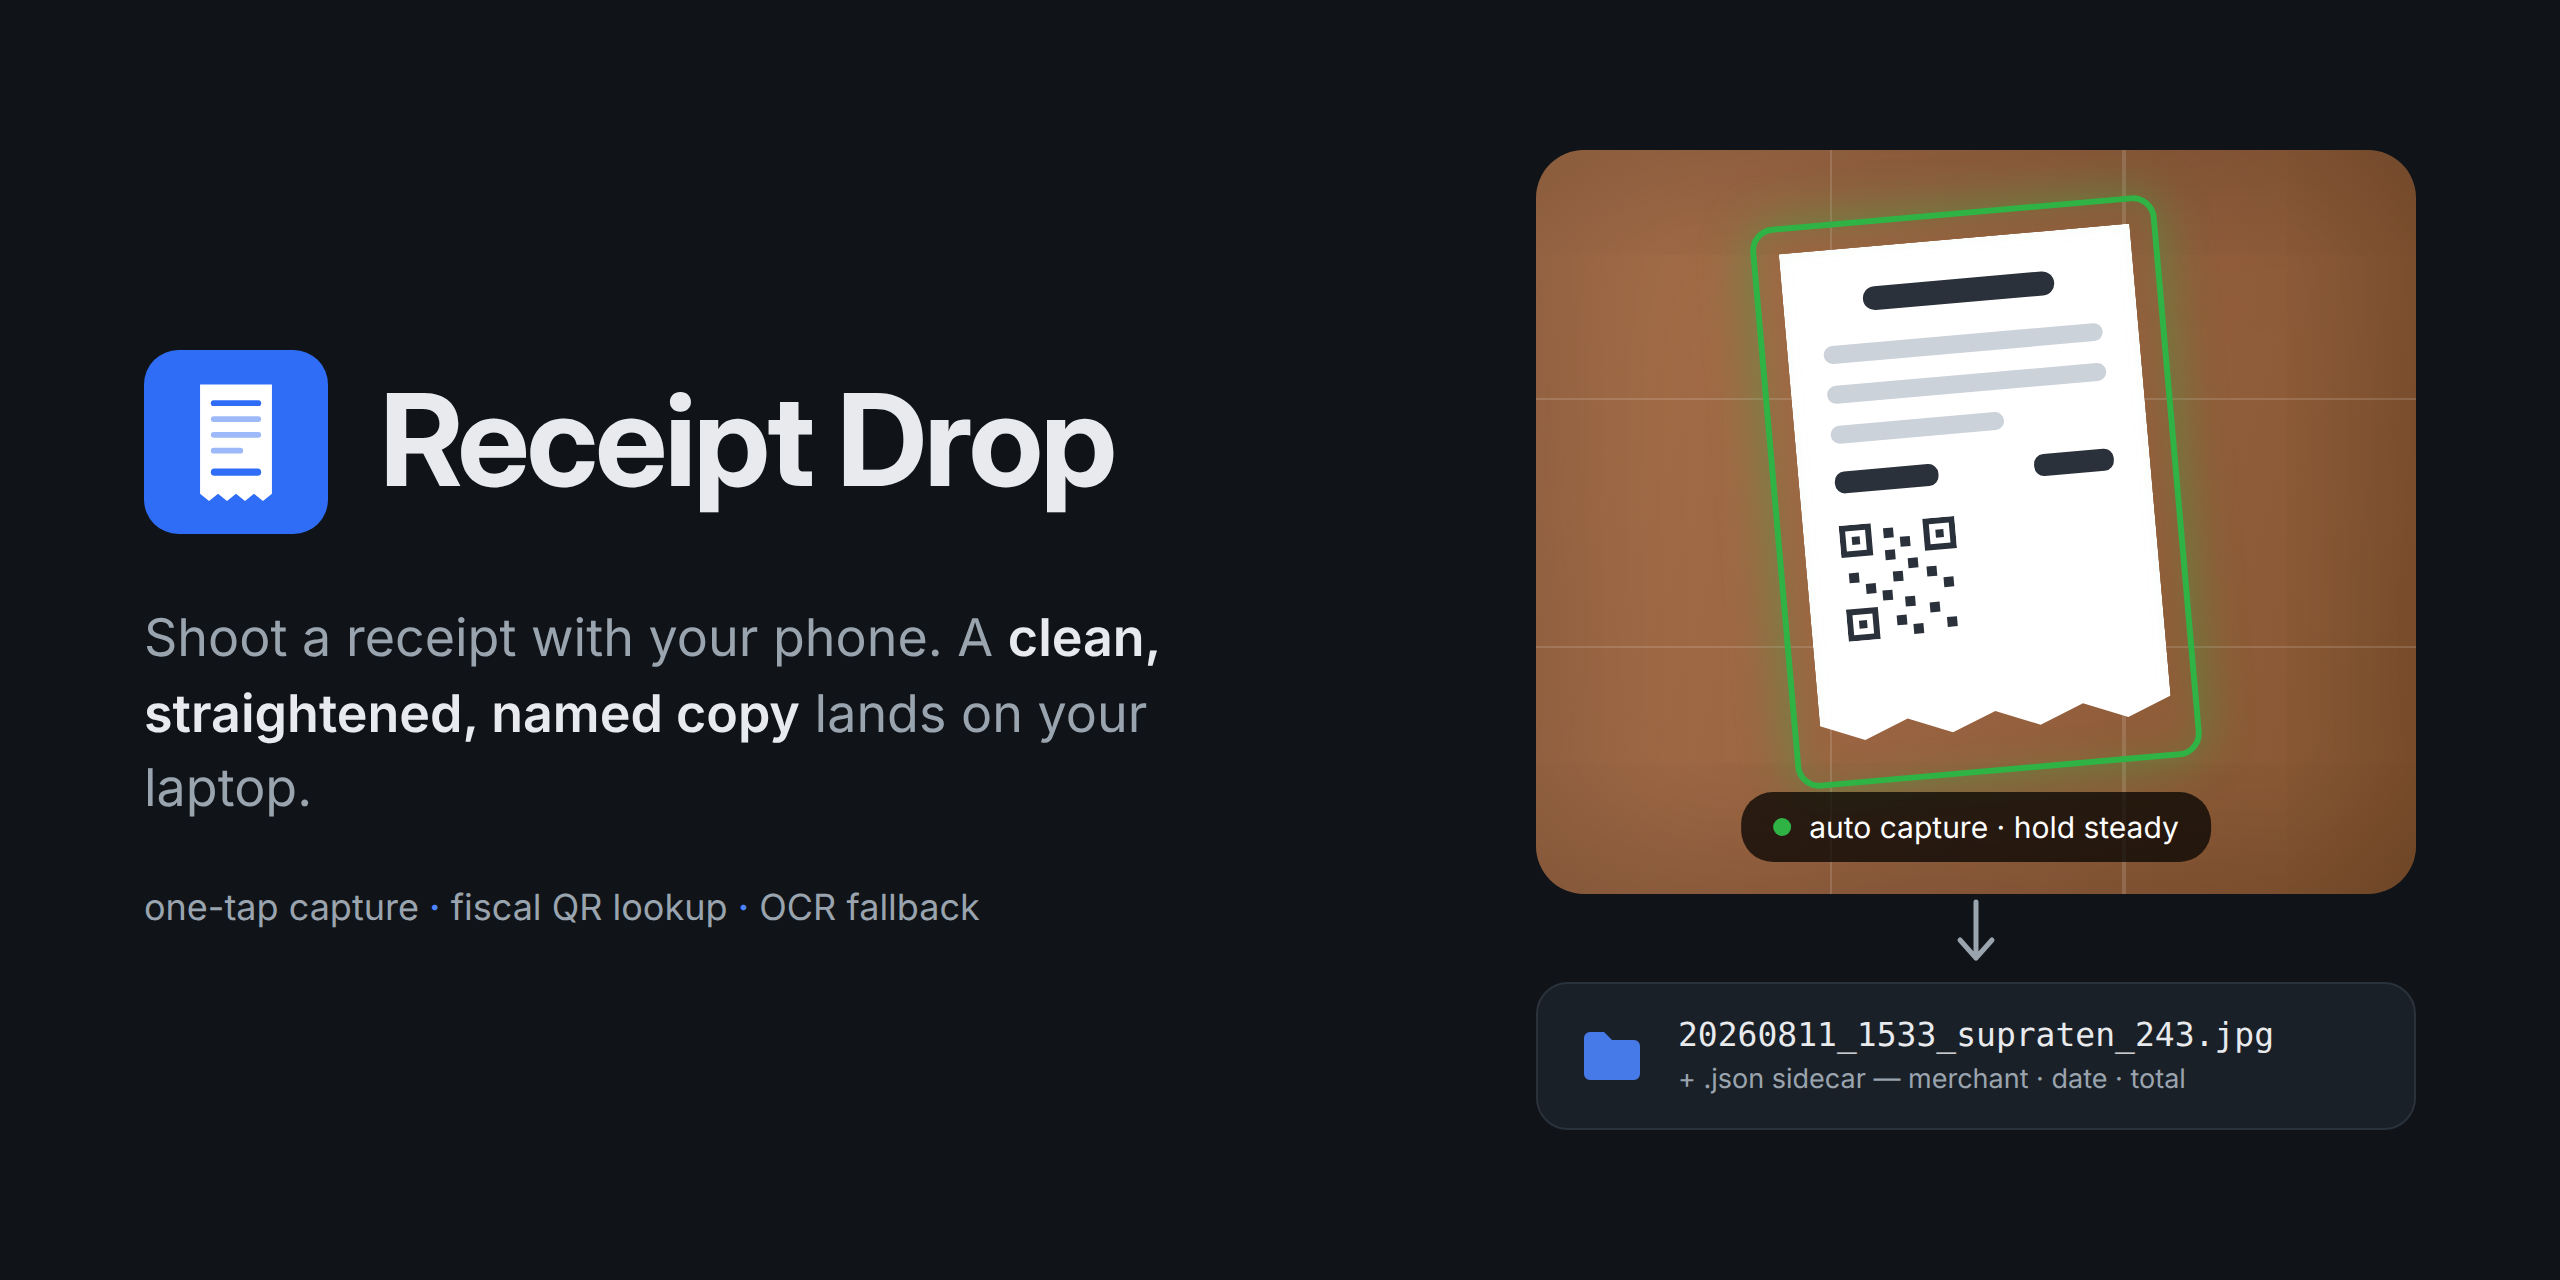
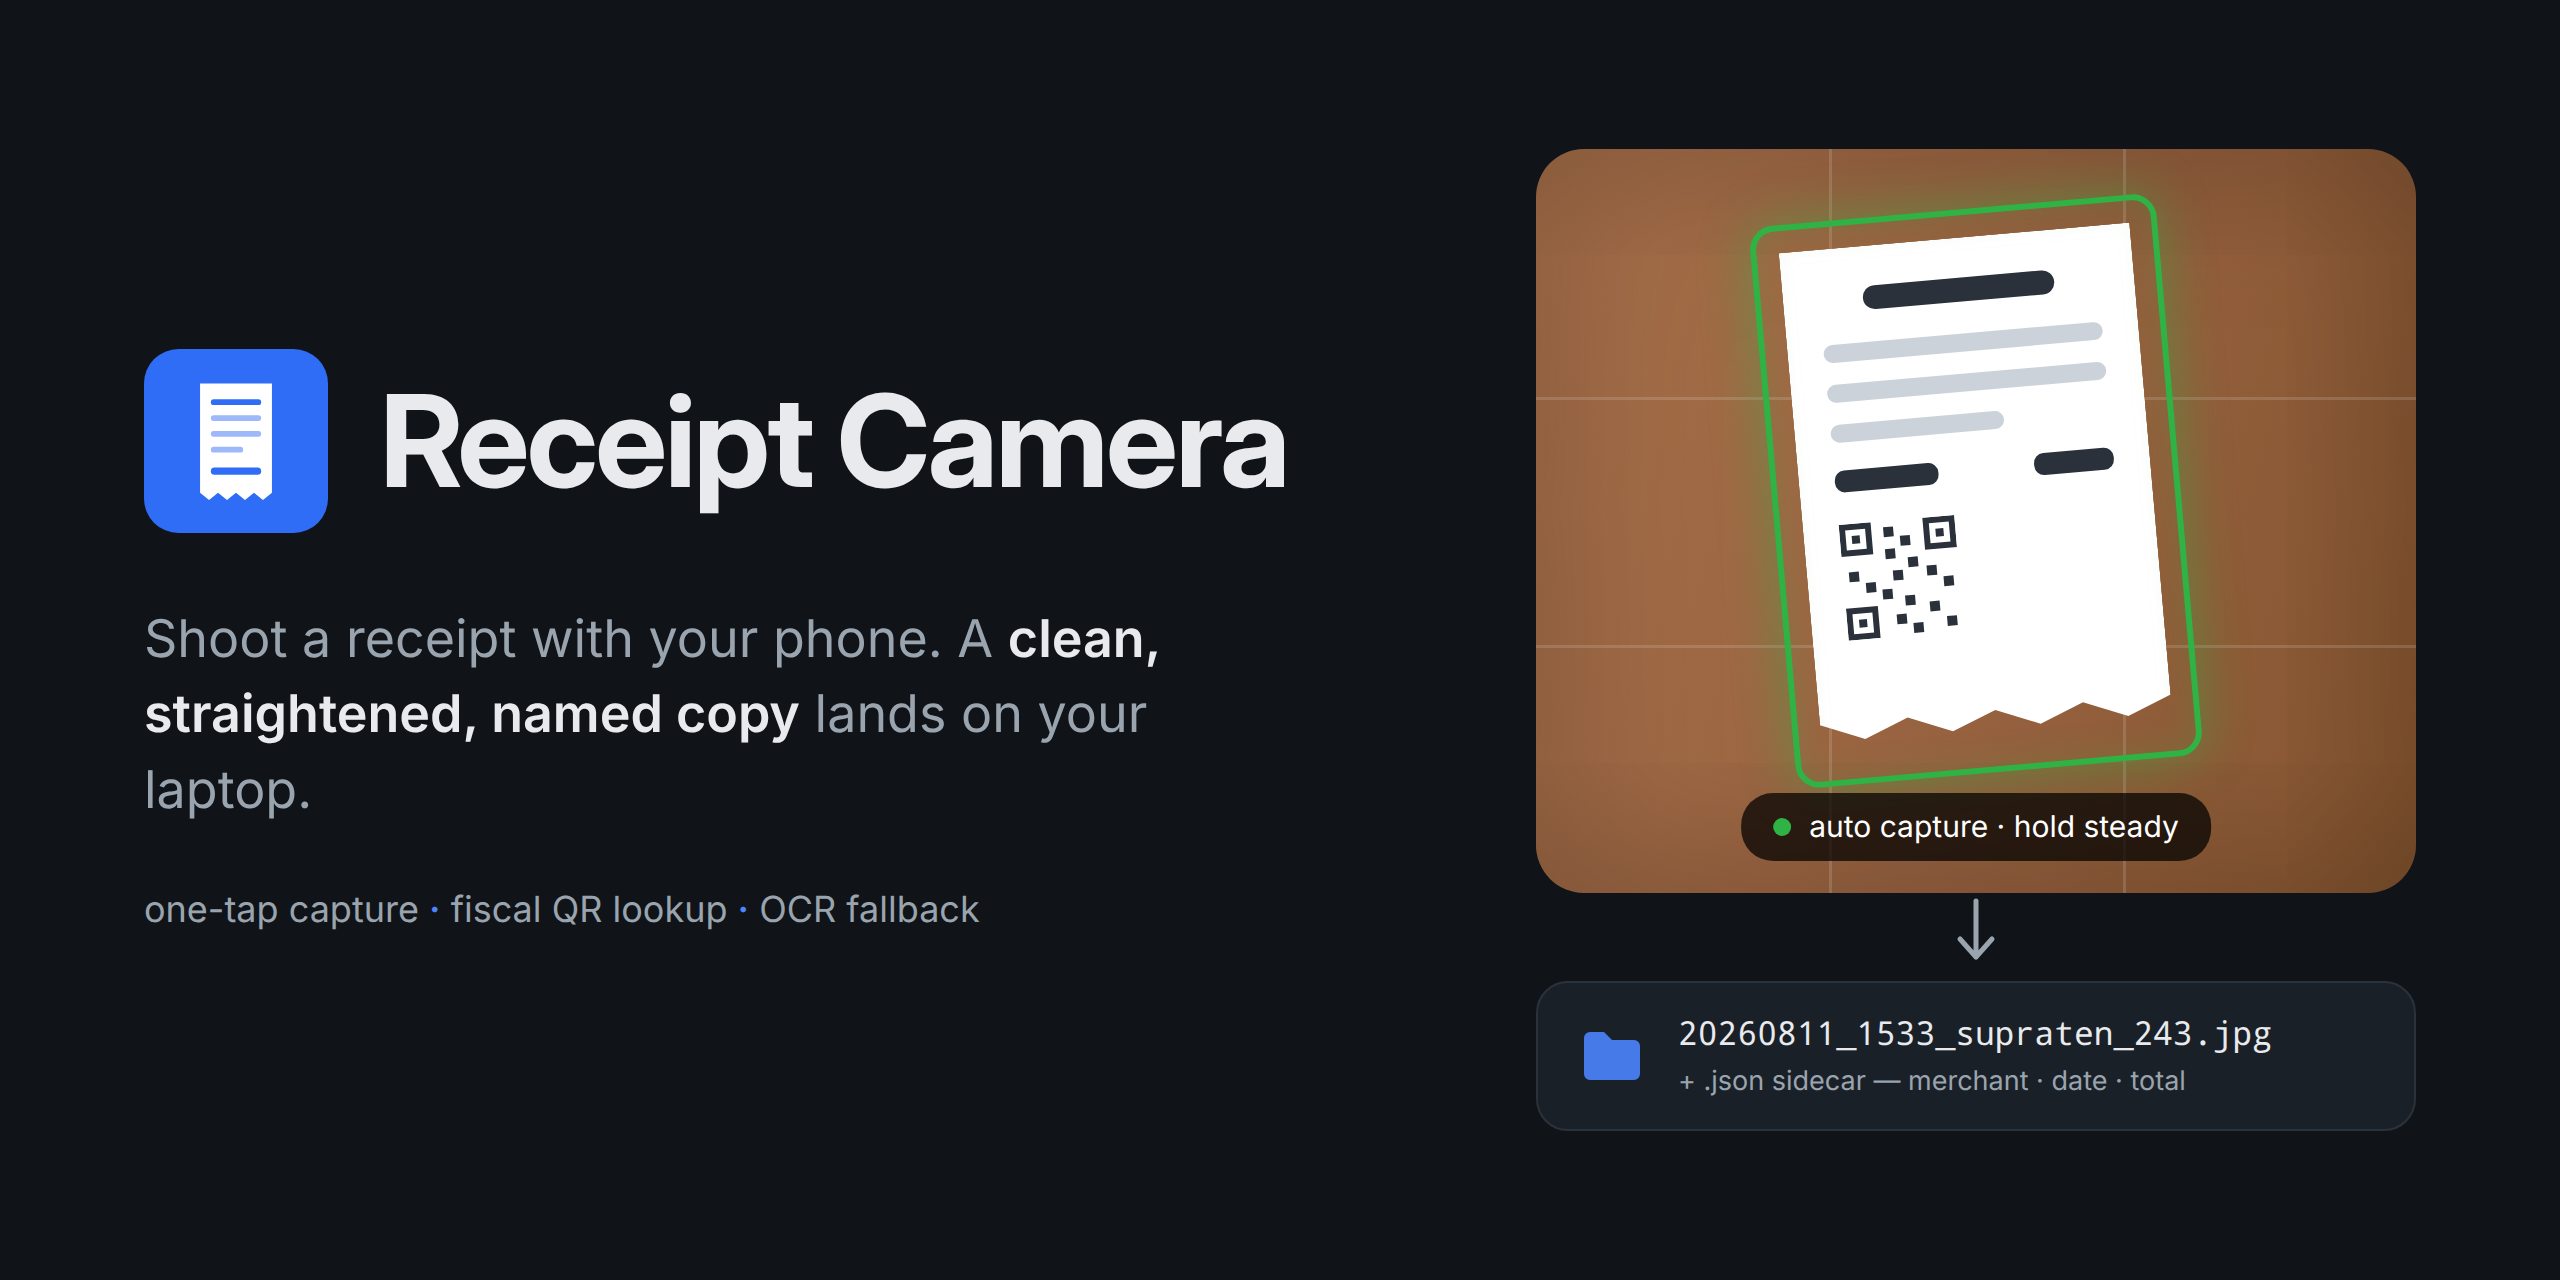
rename: receipt-drop becomes receipt camera

diff --git a/src/http/public/index.html b/src/http/public/index.html
@@ -4,7 +4,7 @@
     <meta charset="utf-8">
     <meta name="viewport" content="width=device-width, initial-scale=1, user-scalable=no, viewport-fit=cover">
     <meta name="theme-color" content="#101418">
-    <title>Receipt Drop</title>
+    <title>Receipt Camera</title>
     <script>
         theme_stamp();
 
@@ -30,7 +30,7 @@
 </head>
 <body>
     <header>
-        <h1>Receipt Drop <span id="version"></span></h1>
+        <h1>Receipt Camera <span id="version"></span></h1>
         <button id="theme_toggle" type="button" aria-label="Toggle theme">
             <svg class="icon-sun" viewBox="0 0 24 24" width="20" height="20" fill="none" stroke="currentColor" stroke-width="2" stroke-linecap="round">
                 <circle cx="12" cy="12" r="4"></circle>
@@ -51,7 +51,7 @@
             <span>Take picture</span>
         </label>
         <div id="status">photo uploads after you confirm the shot</div>
-        <a id="apk_link" href="receipt-drop.apk">install the native app (one-tap capture)</a>
+        <a id="apk_link" href="receipt-camera.apk">install the native app (one-tap capture)</a>
     </main>
 
     <input id="file_input" type="file" accept="image/*" capture="environment" hidden>

diff --git a/img/cover.html b/img/cover.html
@@ -248,7 +248,7 @@ body {
             <rect x="186" y="272" width="90" height="16" rx="8" fill="#9db9f9"/>
             <rect x="186" y="330" width="140" height="20" rx="10" fill="#2f6df6"/>
         </svg>
-        <h1>Receipt Drop</h1>
+        <h1>Receipt Camera</h1>
     </div>
     <p class="tagline">Shoot a receipt with your phone.
         A <b>clean, straightened, named copy</b> lands on your laptop.</p>

diff --git a/src/android/src/app/receiptcamera/MainActivity.java b/src/android/src/app/receiptcamera/MainActivity.java
@@ -1,4 +1,4 @@
-package app.receiptdrop;
+package app.receiptcamera;
 
 import android.Manifest;
 import android.app.Activity;
@@ -445,7 +445,7 @@ public class MainActivity extends Activity
         new Thread(() -> {
             try {
                 HttpURLConnection connection =
-                    (HttpURLConnection) new URL(server() + "/receipt-drop.apk").openConnection();
+                    (HttpURLConnection) new URL(server() + "/receipt-camera.apk").openConnection();
                 connection.setConnectTimeout(3000);
                 InputStream in = connection.getInputStream();
                 FileOutputStream out = new FileOutputStream(new File(getCacheDir(), "update.apk"));
@@ -457,7 +457,7 @@ public class MainActivity extends Activity
                 in.close();
                 connection.disconnect();
                 Intent install = new Intent(Intent.ACTION_VIEW);
-                install.setDataAndType(Uri.parse("content://app.receiptdrop.apk/update.apk"),
+                install.setDataAndType(Uri.parse("content://app.receiptcamera.apk/update.apk"),
                     "application/vnd.android.package-archive");
                 install.addFlags(Intent.FLAG_GRANT_READ_URI_PERMISSION);
                 startActivity(install);
@@ -1540,7 +1540,7 @@ public class MainActivity extends Activity
 
     private SharedPreferences prefs()
     {
-        return getSharedPreferences("receiptdrop", MODE_PRIVATE);
+        return getSharedPreferences("receiptcamera", MODE_PRIVATE);
     }
 
     private void show_server_dialog()

diff --git a/src/parser/qr_wechat.py b/src/parser/qr_wechat.py
@@ -98,7 +98,7 @@ def main():
         image = cv2.imread(str(Path(__file__).with_name('fixtures') / 'qr-check.png'))
         if image is None:
             raise RuntimeError('native QR self-test image is missing')
-        expected = 'https://receipt-drop.invalid/check'
+        expected = 'https://receipt-camera.invalid/check'
         for label, read in [('WeChat', lambda: read_wechat(cv2, image)),
                             ('zxing-cpp', lambda: read_zxing(cv2, zxingcpp, image))]:
             result = read()

diff --git a/src/android/src/app/receiptcamera/SteadyBox.java b/src/android/src/app/receiptcamera/SteadyBox.java
@@ -1,4 +1,4 @@
-package app.receiptdrop;
+package app.receiptcamera;
 
 // Compare with a retained anchor so sub-threshold frame-to-frame drift adds up.
 final class SteadyBox

diff --git a/src/android/src/app/receiptcamera/ApkProvider.java b/src/android/src/app/receiptcamera/ApkProvider.java
@@ -1,4 +1,4 @@
-package app.receiptdrop;
+package app.receiptcamera;
 
 import android.content.ContentProvider;
 import android.content.ContentValues;

diff --git a/src/android/src/app/receiptcamera/GridOverlay.java b/src/android/src/app/receiptcamera/GridOverlay.java
@@ -1,4 +1,4 @@
-package app.receiptdrop;
+package app.receiptcamera;
 
 import android.content.Context;
 import android.graphics.Canvas;

diff --git a/src/android/src/app/receiptcamera/FocusLock.java b/src/android/src/app/receiptcamera/FocusLock.java
@@ -1,4 +1,4 @@
-package app.receiptdrop;
+package app.receiptcamera;
 
 import android.hardware.camera2.CaptureResult;
 

diff --git a/src/android/tests/app/receiptcamera/CaptureQualityTest.java b/src/android/tests/app/receiptcamera/CaptureQualityTest.java
@@ -1,4 +1,4 @@
-package app.receiptdrop;
+package app.receiptcamera;
 
 import android.hardware.camera2.CaptureResult;
 

diff --git a/docs/server.md b/docs/server.md
@@ -4,12 +4,12 @@ Needs docker or podman for `bin/run`, and Node.js to run the pieces
 separately. One-time: run `bin/configure` — it installs the npm
 dependencies and, when missing, the apk build toolchain (JDK 17 +
 Android build-tools/platform, ~350 MB into `src/android/toolchain/`) — then
-`bin/build`, which builds the `receipt-drop` image.
+`bin/build`, which builds the `receipt-camera` image.
 
 `bin/run` starts the http server and the receipt parser together in the
 current directory, inside the image, on the laptop's own network; Ctrl-C stops
 both. The files it writes belong to you. Server only:
-`node /path/to/receipt-drop/src/http/index.js`. Photos are saved to the
+`node /path/to/receipt-camera/src/http/index.js`. Photos are saved to the
 directory you start it from, or to an explicit folder: `node index.js
 ~/Documents/receipts`. Different port: `PORT=9000 node index.js`. The startup
 log prints the URL(s) to open on the phone.
@@ -42,7 +42,7 @@ minutes for loading/downloading; rerun after fixing a reported failure.
 
 A service manager runs the image as is, without `bin/run`:
 
-    docker run -p 8080:8080 -v ~/Documents/receipts:/app/data --userns=keep-id receipt-drop
+    docker run -p 8080:8080 -v ~/Documents/receipts:/app/data --userns=keep-id receipt-camera
 
 With docker, `-u "$(id -u):$(id -g)"` replaces `--userns=keep-id`. The receipts
 folder is the `/app/data` volume and `PORT` is the listening port. The port

diff --git a/docs/android.md b/docs/android.md
@@ -1,6 +1,6 @@
 # Android app (one-tap capture)
 
-The web page links to `receipt-drop.apk` — a tiny native Android app (sources
+The web page links to `receipt-camera.apk` — a tiny native Android app (sources
 in `src/android/`, rebuilt with `bin/build`, no Gradle needed). It shows a live
 viewfinder and takes full-quality stills at one tap per receipt, no confirm
 step, uploading to the same server. Install: tap the link on the phone, allow
@@ -14,6 +14,6 @@ shows a retry screen instead (photos can never be shot into the void). When the
 server holds a newer apk, the app offers "Update now": it downloads the apk
 itself and opens the system installer — two taps, no browser. Publishing an
 update = run `bin/build` (bump `versionCode` in AndroidManifest.xml first), then
-copy the fresh `receipt-drop.apk` **and** `apk-version.txt` into
+copy the fresh `receipt-camera.apk` **and** `apk-version.txt` into
 `src/http/public/`. The `keystore` file must never be lost — updates only install
 over the old version when signed with the same key.

diff --git a/README.md b/README.md
@@ -1,6 +1,6 @@
-# Receipt Drop
+# Receipt Camera
 
-![Receipt Drop](img/cover-light.png)
+![Receipt Camera](img/cover-light.png)
 
 Point your phone at a receipt, take the picture with the phone's own camera
 app, and the photo lands in a folder on your laptop — with a clean,
@@ -12,7 +12,7 @@ served by your laptop, added to the phone's home screen.
     bin/configure
     bin/build
     cd ~/Documents/receipts
-    /path/to/receipt-drop/bin/run
+    /path/to/receipt-camera/bin/run
 
 `bin/run` starts the http server and the receipt parser in the current
 directory; Ctrl-C stops both. The startup log prints the URL(s) to open on the
